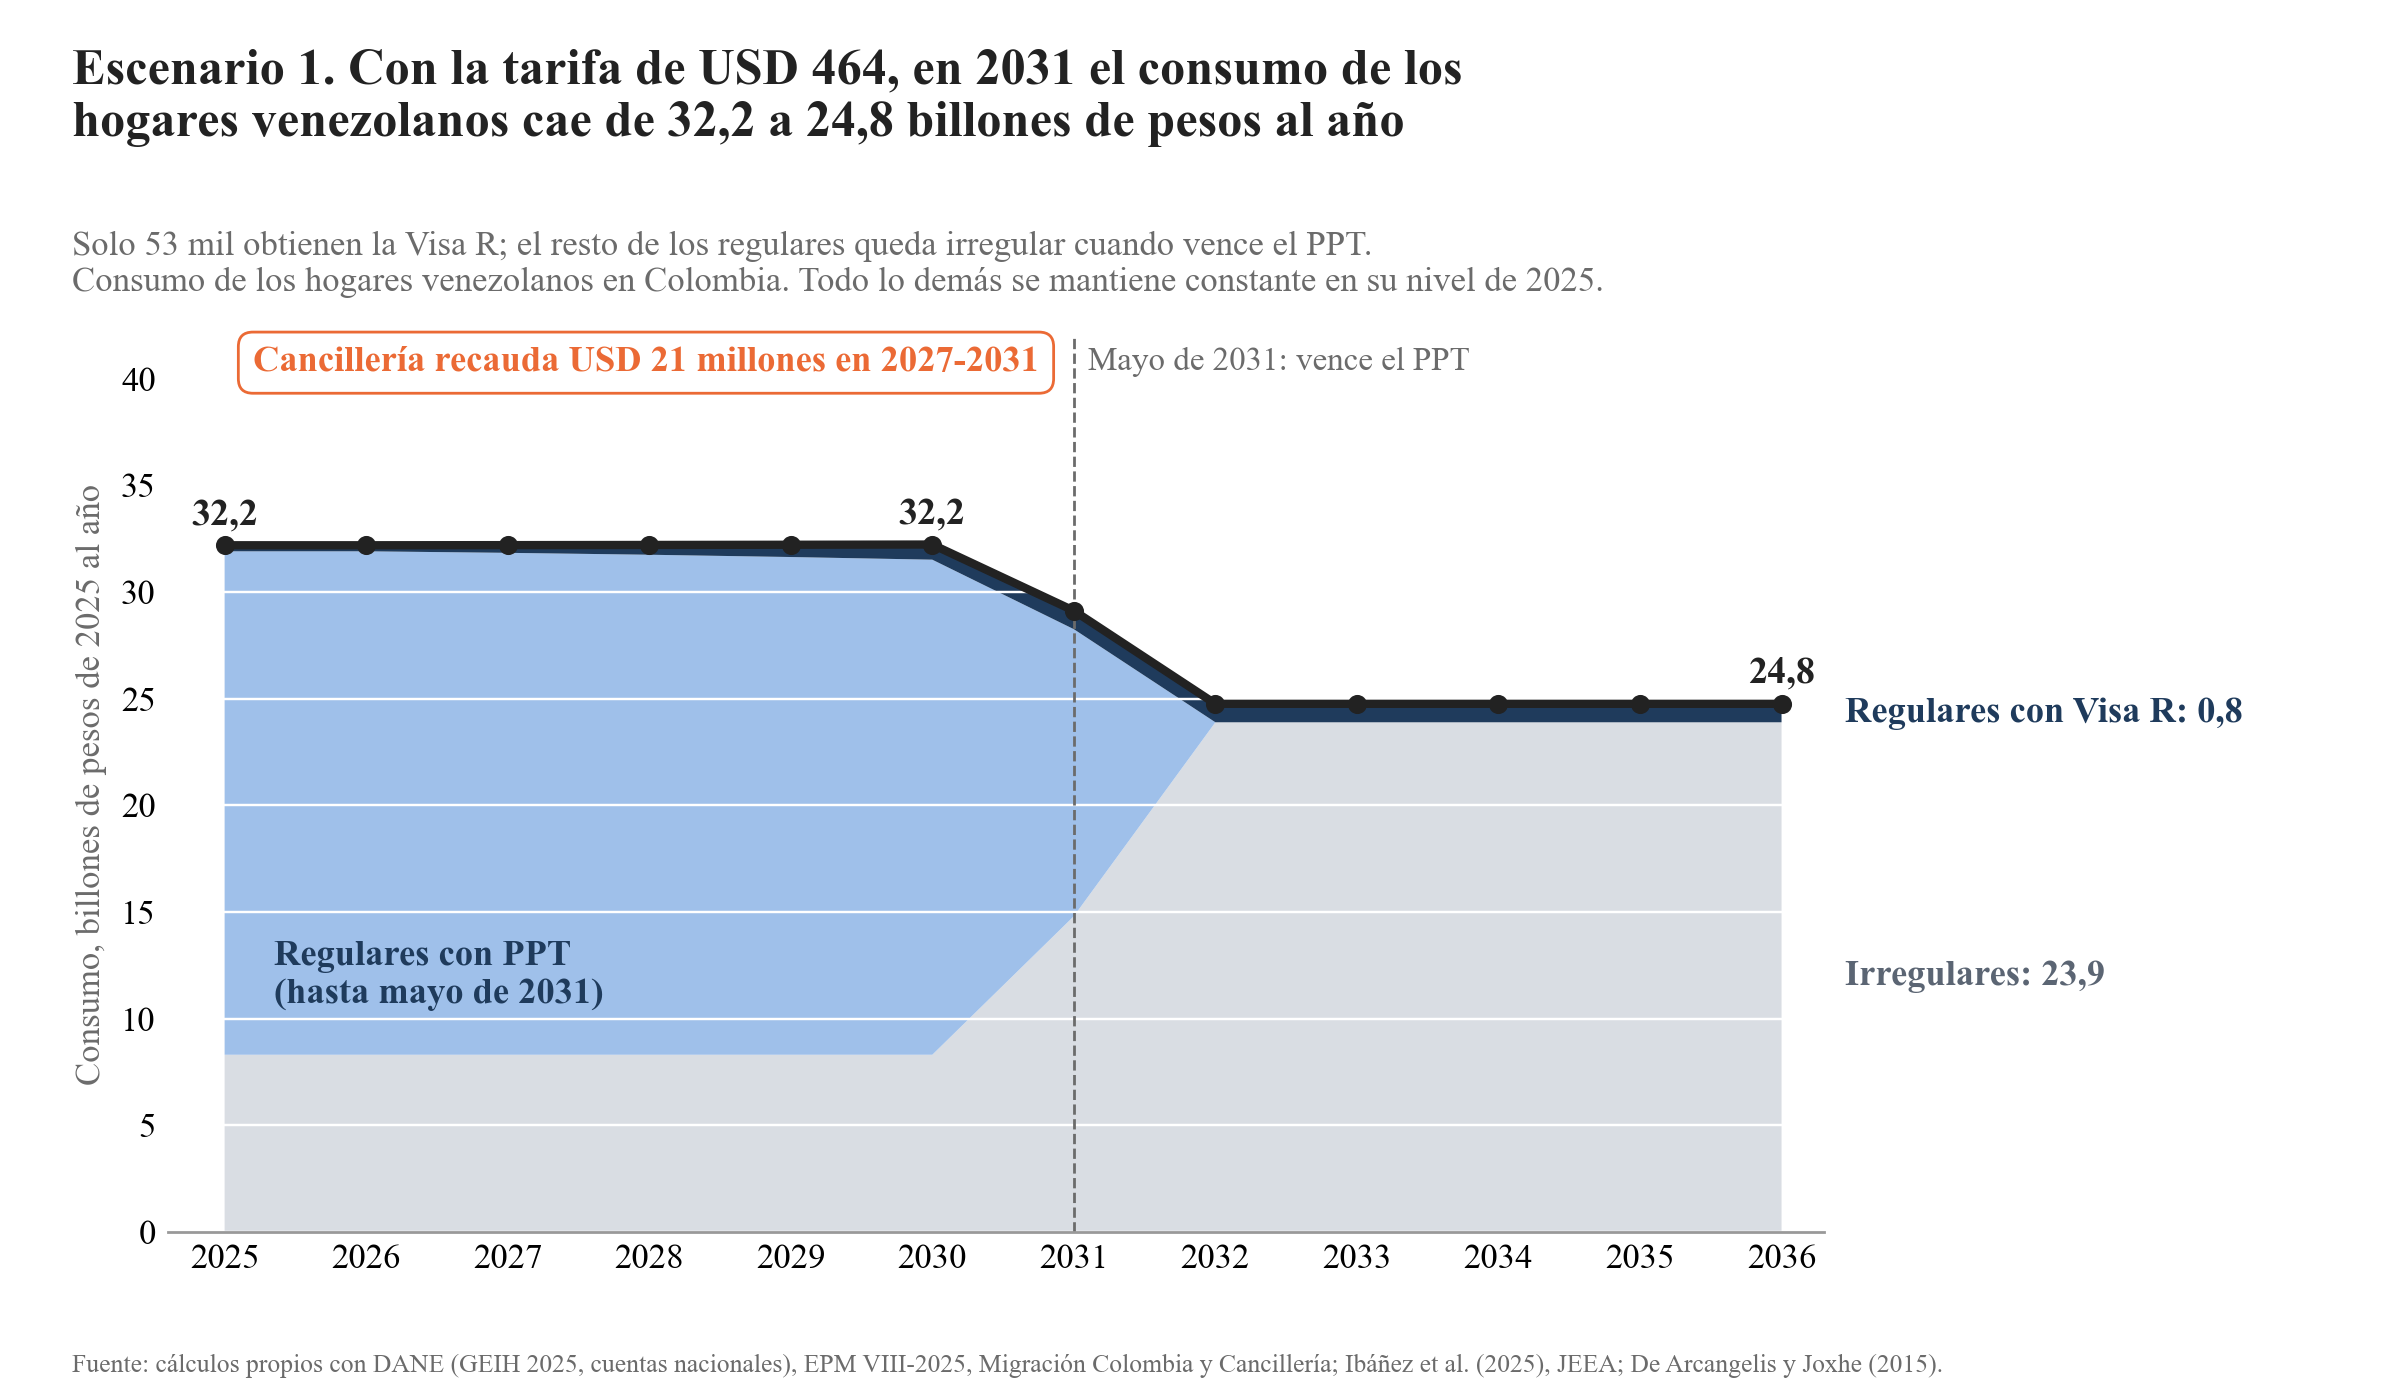
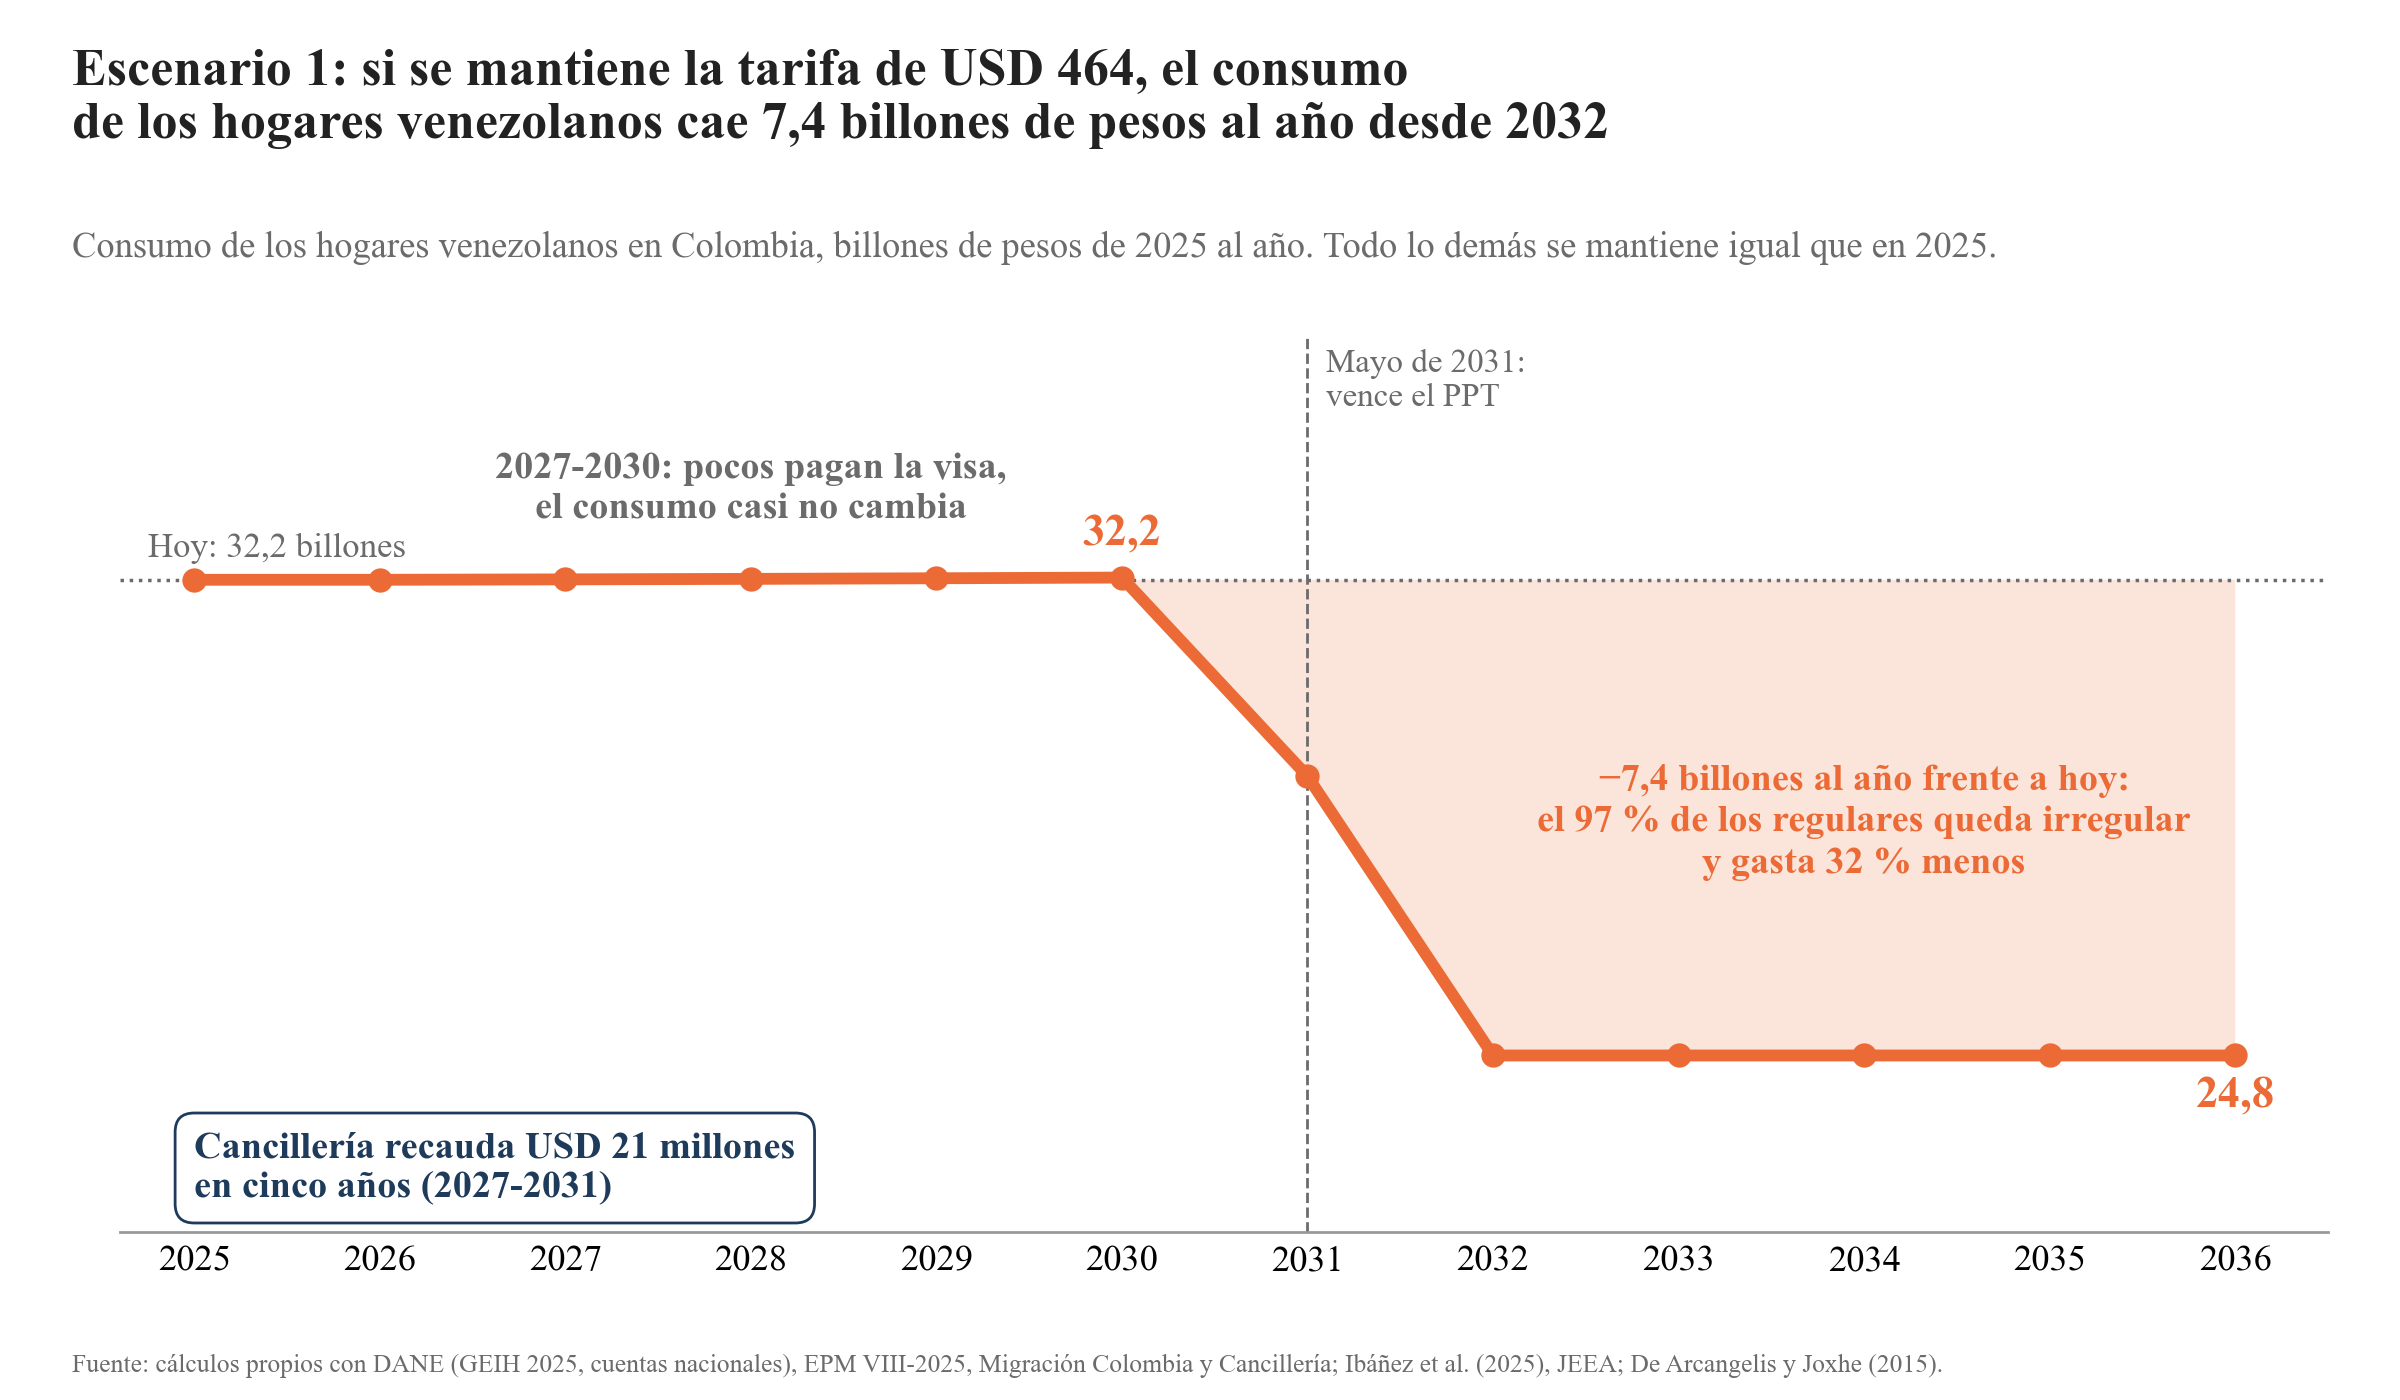
Escenarios de consumo en líneas simples frente a hoy (pr24a, pr24b)

diff --git a/Code/39_grafico_dos_escenarios_consumo.py b/Code/39_grafico_dos_escenarios_consumo.py
@@ -124,59 +124,56 @@ def partes(visas):
     return irr, ppt, visa, bono
 
 
-def grafico(visas, archivo, titulo, sub, recaudo_txt, col_rec):
-    irr, ppt, visa, bono = partes(visas)
-    tot = irr + ppt + visa + bono
-    fig, ax = plt.subplots(figsize=(9.6, 5.6)); fig.subplots_adjust(left=0.07, right=0.76, top=0.76, bottom=0.12)
-    capas = [(irr, LGRAY, "Irregulares"), (ppt, MBLUE, "Regulares con PPT"), (visa, NAVY, "Regulares con Visa R"),
-             (bono, BLUE, "Gasto adicional por la residencia (+8,8 %)")]
-    ax.stackplot(YRS, *[c[0] for c in capas], colors=[c[1] for c in capas], lw=0, zorder=1)
-    ax.plot(YRS, tot, color=INK, lw=2.4, marker="o", ms=4.5, zorder=3)
+def grafico(visas, tot, col, archivo, titulo, sub, notas, recaudo_txt, etq_anios=(2030, 2036)):
+    """Una sola línea: el consumo total, comparado con hoy. Verde-azul donde gana, naranja donde pierde."""
+    hoy = tot[0]
+    fig, ax = plt.subplots(figsize=(9.6, 5.6)); fig.subplots_adjust(left=0.05, right=0.97, top=0.76, bottom=0.12)
+    ax.fill_between(YRS, hoy, tot, where=tot >= hoy, interpolate=True, color=BLUE, alpha=0.18, lw=0, zorder=1)
+    ax.fill_between(YRS, hoy, tot, where=tot <= hoy, interpolate=True, color=ORANGE, alpha=0.18, lw=0, zorder=1)
+    ax.axhline(hoy, color=GRAY, lw=1, ls=":", zorder=2)
+    ax.text(2024.75, hoy + 0.25, f"Hoy: {pc(hoy)} billones", fontsize=10, color=GRAY, va="bottom")
+    ax.plot(YRS, tot, color=col, lw=3.4, marker="o", ms=6, zorder=3)
     for y_, v in zip(YRS, tot):
-        if y_ in (2025, 2030, 2036):
-            ax.text(y_, v + 0.6, pc(v), ha="center", va="bottom", fontsize=11, fontweight="bold", color=INK)
-    # capas que siguen en 2036: nombre a la derecha; regulares con PPT: nombre dentro del área (desaparece en 2031)
-    nombres = {"Irregulares": ("Irregulares", "#5b6573"), "Regulares con Visa R": ("Regulares con Visa R", NAVY),
-               "Gasto adicional por la residencia (+8,8 %)": ("Extra por la residencia", BLUE)}
-    yl, b = [], 0
-    for serie, col, nom in capas:
-        if nom in nombres and serie[-1] > 0.3:
-            ylab = b + serie[-1] / 2
-            while any(abs(ylab - o) < 1.9 for o in yl):
-                ylab += 1.9
-            yl.append(ylab)
-            ax.text(2036.45, ylab, f"{nombres[nom][0]}: {pc(serie[-1])}", fontsize=10.5, fontweight="bold", color=nombres[nom][1], va="center")
-        b += serie[-1]
-    ax.text(2025.35, 12, "Regulares con PPT" + NL + "(hasta mayo de 2031)", fontsize=10.5, fontweight="bold", color=NAVY, va="center")
-    ax.axvline(2031, color=GRAY, lw=0.8, ls="--", zorder=2)
-    ax.text(2031.1, 41.5, "Mayo de 2031: vence el PPT", fontsize=9.5, color=GRAY, va="top")
-    ax.text(2025.2, 41.5, recaudo_txt, fontsize=10.5, color=col_rec, va="top", fontweight="bold",
-            bbox=dict(boxstyle="round,pad=0.4", fc="white", ec=col_rec, lw=0.8))
-    ax.set_xticks(YRS); ax.set_xticklabels([str(y) for y in YRS], fontsize=10)
-    ax.set_xlim(2024.6, 2036.3); ax.set_ylim(0, 42)
-    ax.yaxis.set_major_formatter(matplotlib.ticker.FuncFormatter(lambda v, _: pc(v, 0)))
-    ax.tick_params(axis="both", length=0); ax.grid(axis="y", color="#ffffff", lw=0.7, zorder=2)
-    for s in ["top", "right", "left"]:
-        ax.spines[s].set_visible(False)
+        if y_ in etq_anios:
+            arriba = v >= hoy
+            ax.text(y_, v + (0.35 if arriba else -0.35), pc(v), ha="center", va="bottom" if arriba else "top", fontsize=13, fontweight="bold", color=col)
+    for (x_, y_, txt, c_, ha) in notas:
+        ax.text(x_, y_, txt, fontsize=11, color=c_, ha=ha, va="center", fontweight="bold", linespacing=1.3)
+    ax.axvline(2031, color=GRAY, lw=0.8, ls="--", zorder=1)
+    ax.text(2031.1, 35.8, "Mayo de 2031:" + NL + "vence el PPT", fontsize=9.5, color=GRAY, va="top")
+    ax.text(2025.0, 23.0, recaudo_txt, fontsize=11, color=NAVY, va="center", fontweight="bold",
+            bbox=dict(boxstyle="round,pad=0.5", fc="white", ec=NAVY, lw=0.8))
+    ax.set_xticks(YRS); ax.set_xticklabels([str(y) for y in YRS], fontsize=10.5)
+    ax.set_xlim(2024.6, 2036.5); ax.set_ylim(22, 36)
+    ax.set_yticks([])
+    ax.tick_params(axis="x", length=0)
+    for s_ in ["top", "right", "left"]:
+        ax.spines[s_].set_visible(False)
     ax.spines["bottom"].set_color("#999999")
-    ax.set_ylabel("Consumo, billones de pesos de 2025 al año", fontsize=10, color=GRAY)
-    fig.text(0.03, 0.965, titulo, fontsize=14.5, fontweight="bold", ha="left", va="top")
-    fig.text(0.03, 0.835, sub + NL + "Consumo de los hogares venezolanos en Colombia. Todo lo demás se mantiene constante en su nivel de 2025.",
-             fontsize=10, ha="left", va="top", color=GRAY)
+    fig.text(0.03, 0.965, titulo, fontsize=15, fontweight="bold", ha="left", va="top")
+    fig.text(0.03, 0.835, sub, fontsize=10.5, ha="left", va="top", color=GRAY)
     fig.text(0.03, 0.02, "Fuente: cálculos propios con DANE (GEIH 2025, cuentas nacionales), EPM VIII-2025, Migración Colombia y Cancillería; Ibáñez et al. (2025), JEEA;"
              + " De Arcangelis y Joxhe (2015).", fontsize=7.4, color=GRAY, ha="left")
     fig.savefig(FIG / archivo, dpi=250, facecolor="white"); plt.close(fig)
-    return tot
 
 
-tA = grafico(visa_tarifa, "pr24a_escenario_con_tarifa.png",
-             f"Escenario 1. Con la tarifa de USD 464, en 2031 el consumo de los" + NL +
-             f"hogares venezolanos cae de {pc(tot_t[0])} a {pc(tot_t[-1])} billones de pesos al año",
-             f"Solo {miles(visa_tarifa[-1] / 1e3)} mil obtienen la Visa R; el resto de los regulares queda irregular cuando vence el PPT.",
-             f"Cancillería recauda USD {miles(rec_tot_usd)} millones en 2027-2031", ORANGE)
-tB = grafico(visa_cero, "pr24b_escenario_tarifa_cero.png",
-             f"Escenario 2. Con la Visa R gratis desde 2027, el consumo de los hogares" + NL +
-             f"venezolanos se mantiene en {pc(tot_c[-1])} billones de pesos al año después de 2031",
-             f"{pc(visa_cero[-1] / 1e6, 2)} millones obtienen la Visa R (80 % de quienes quieren quedarse) y siguen regulares cuando vence el PPT.",
-             "Cancillería no recauda por la tarifa", BLUE)
-print("A", tA.round(2)); print("B", tB.round(2))
+SUB = "Consumo de los hogares venezolanos en Colombia, billones de pesos de 2025 al año. Todo lo demás se mantiene igual que en 2025."
+irr_t = 1 - (visa_tarifa[-1] + RES) / REG_MIG
+irr_c = 1 - (visa_cero[-1] + RES) / REG_MIG
+gan_c = (tot_c - tot_c[0])[(YRS >= 2027) & (YRS <= 2030)].max()
+grafico(visa_tarifa, tot_t, ORANGE, "pr24a_escenario_con_tarifa.png",
+        "Escenario 1: si se mantiene la tarifa de USD 464, el consumo" + NL +
+        f"de los hogares venezolanos cae {pc(tot_t[0] - tot_t[-1])} billones de pesos al año desde 2032",
+        SUB,
+        [(2028, 33.6, "2027-2030: pocos pagan la visa," + NL + "el consumo casi no cambia", GRAY, "center"),
+         (2034, 28.4, f"−{pc(tot_t[0] - tot_t[-1])} billones al año frente a hoy:" + NL +
+          f"el {pc(100 * irr_t, 0)} % de los regulares queda irregular" + NL + "y gasta 32 % menos", ORANGE, "center")],
+        f"Cancillería recauda USD {miles(rec_tot_usd)} millones" + NL + "en cinco años (2027-2031)")
+grafico(visa_cero, tot_c, BLUE, "pr24b_escenario_tarifa_cero.png",
+        "Escenario 2: con la Visa R gratis desde 2027, el consumo de los hogares" + NL +
+        f"venezolanos sube {pc(gan_c)} billones al año y casi no cae cuando vence el PPT",
+        SUB,
+        [(2028.2, 35.1, f"+{pc(gan_c)} billones al año frente a hoy:" + NL + "con residencia permanente gastan 8,8 % más", BLUE, "center"),
+         (2034, 29.0, f"−{pc(tot_c[0] - tot_c[-1])} billones frente a hoy:" + NL +
+          f"solo el {pc(100 * irr_c, 0)} % de los regulares no obtiene" + NL + "la visa y queda irregular", ORANGE, "center")],
+        "Cancillería no recauda por la tarifa", etq_anios=(2036,))
